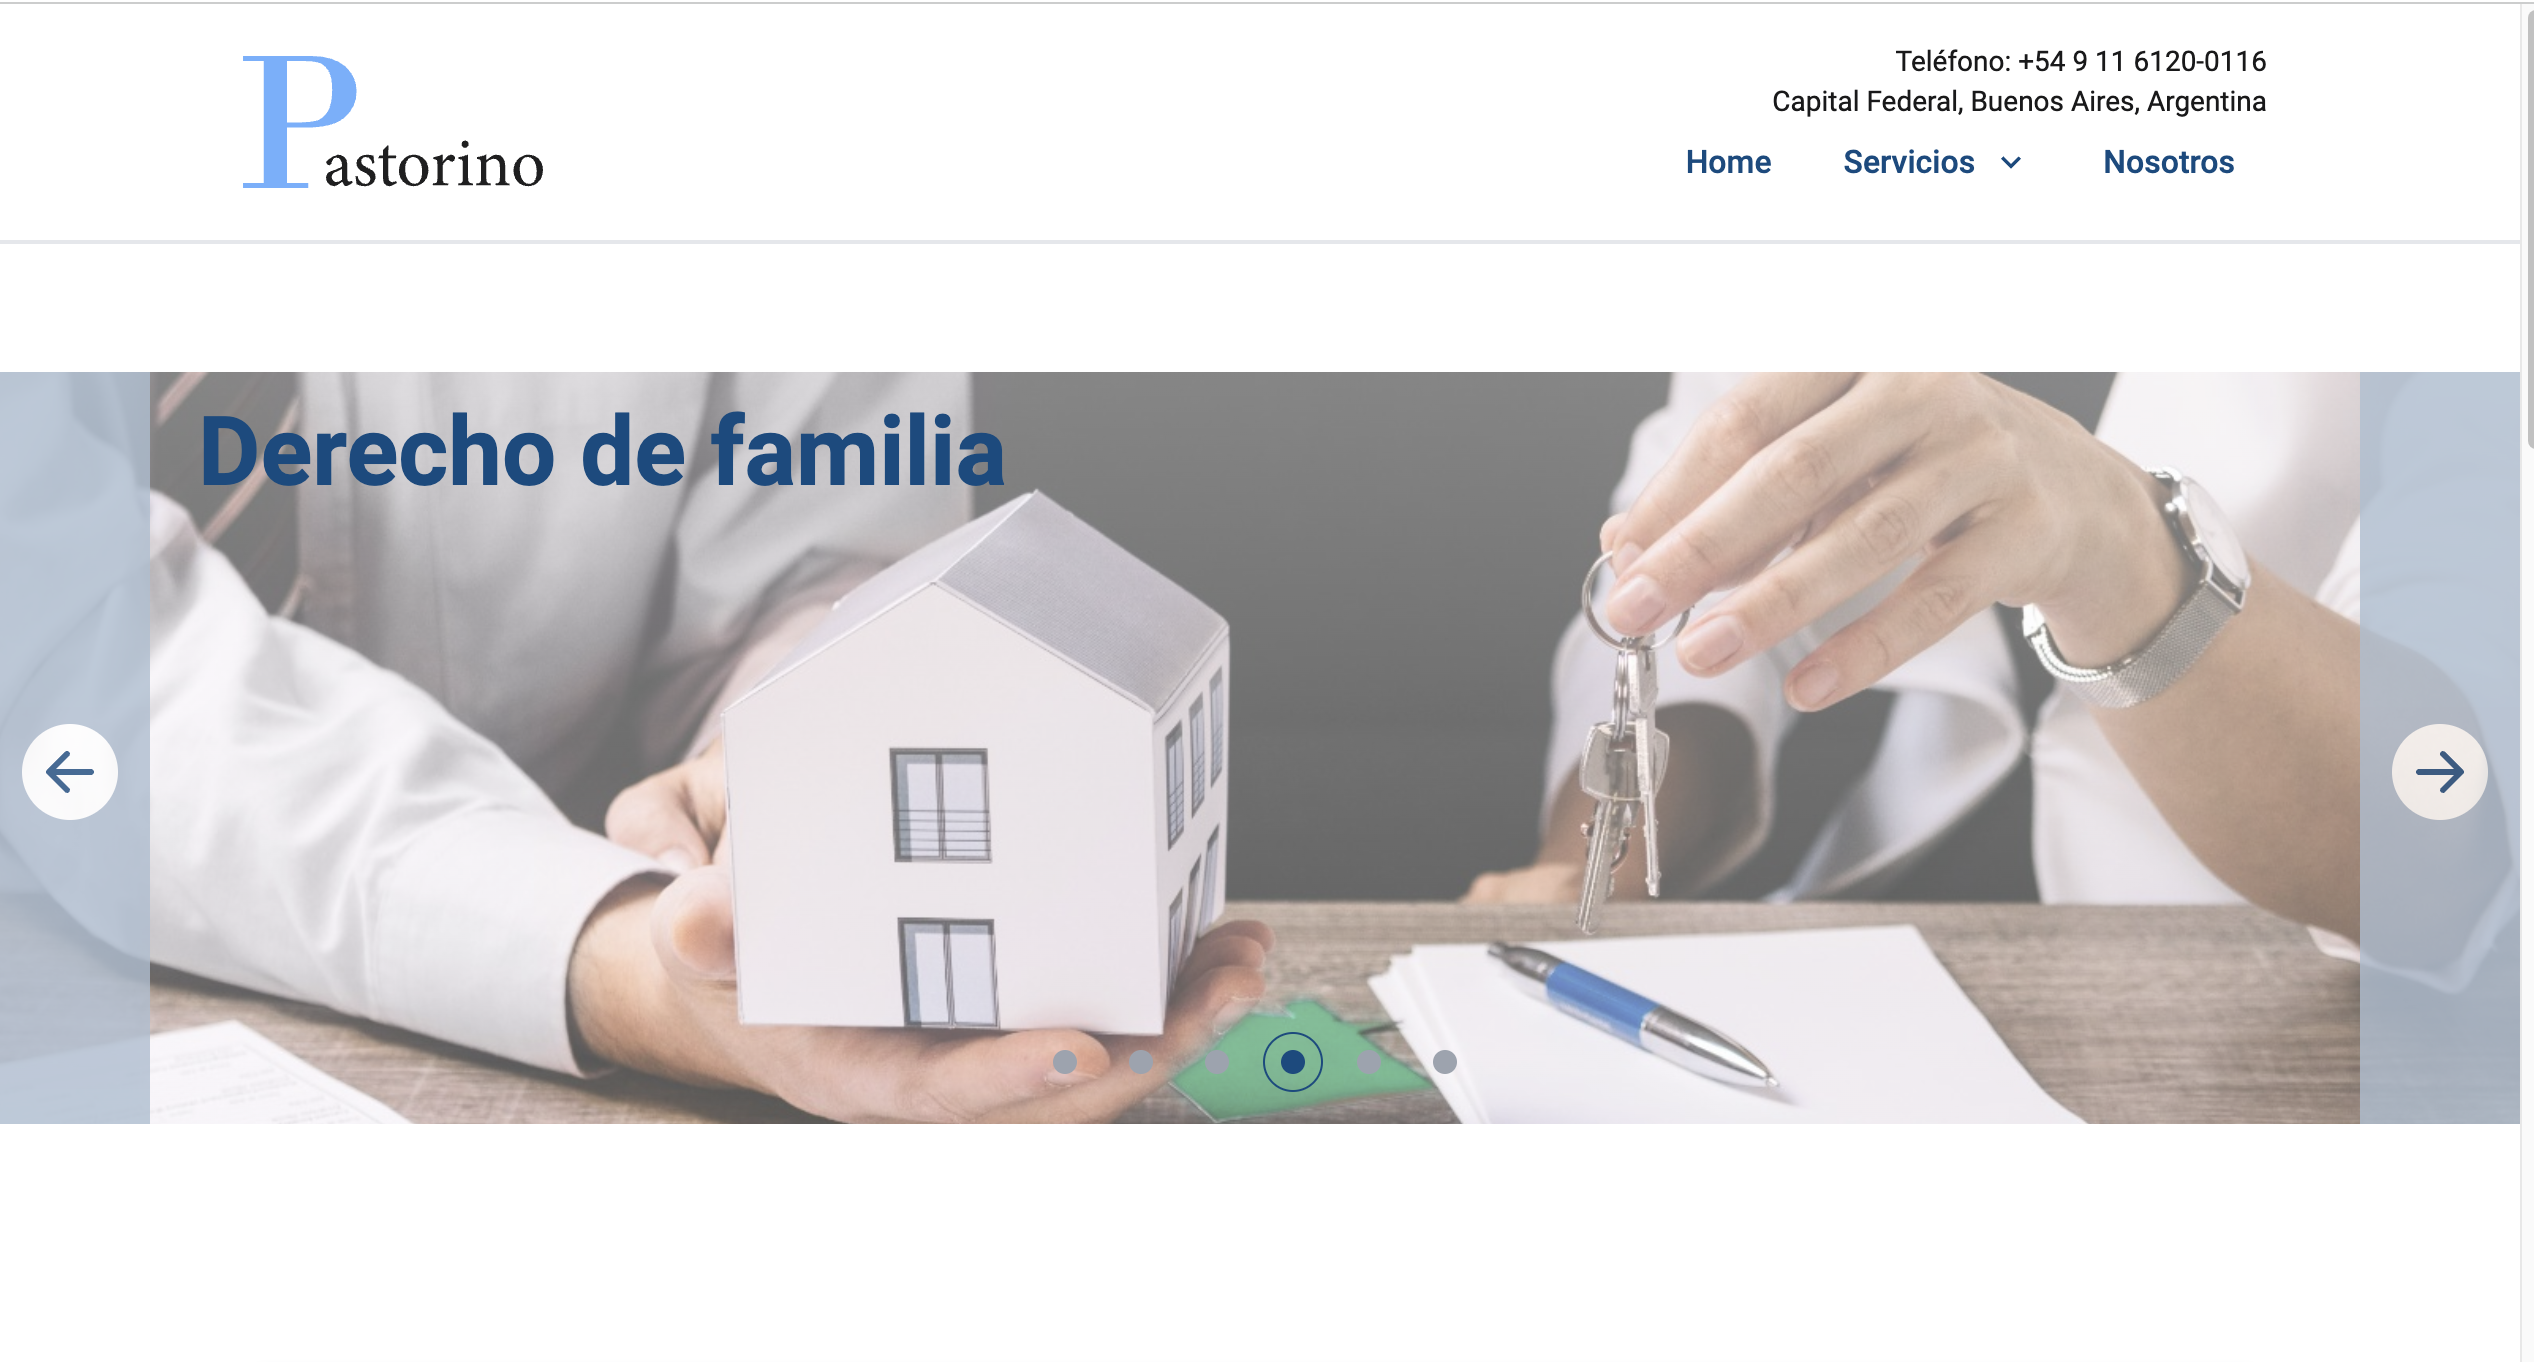
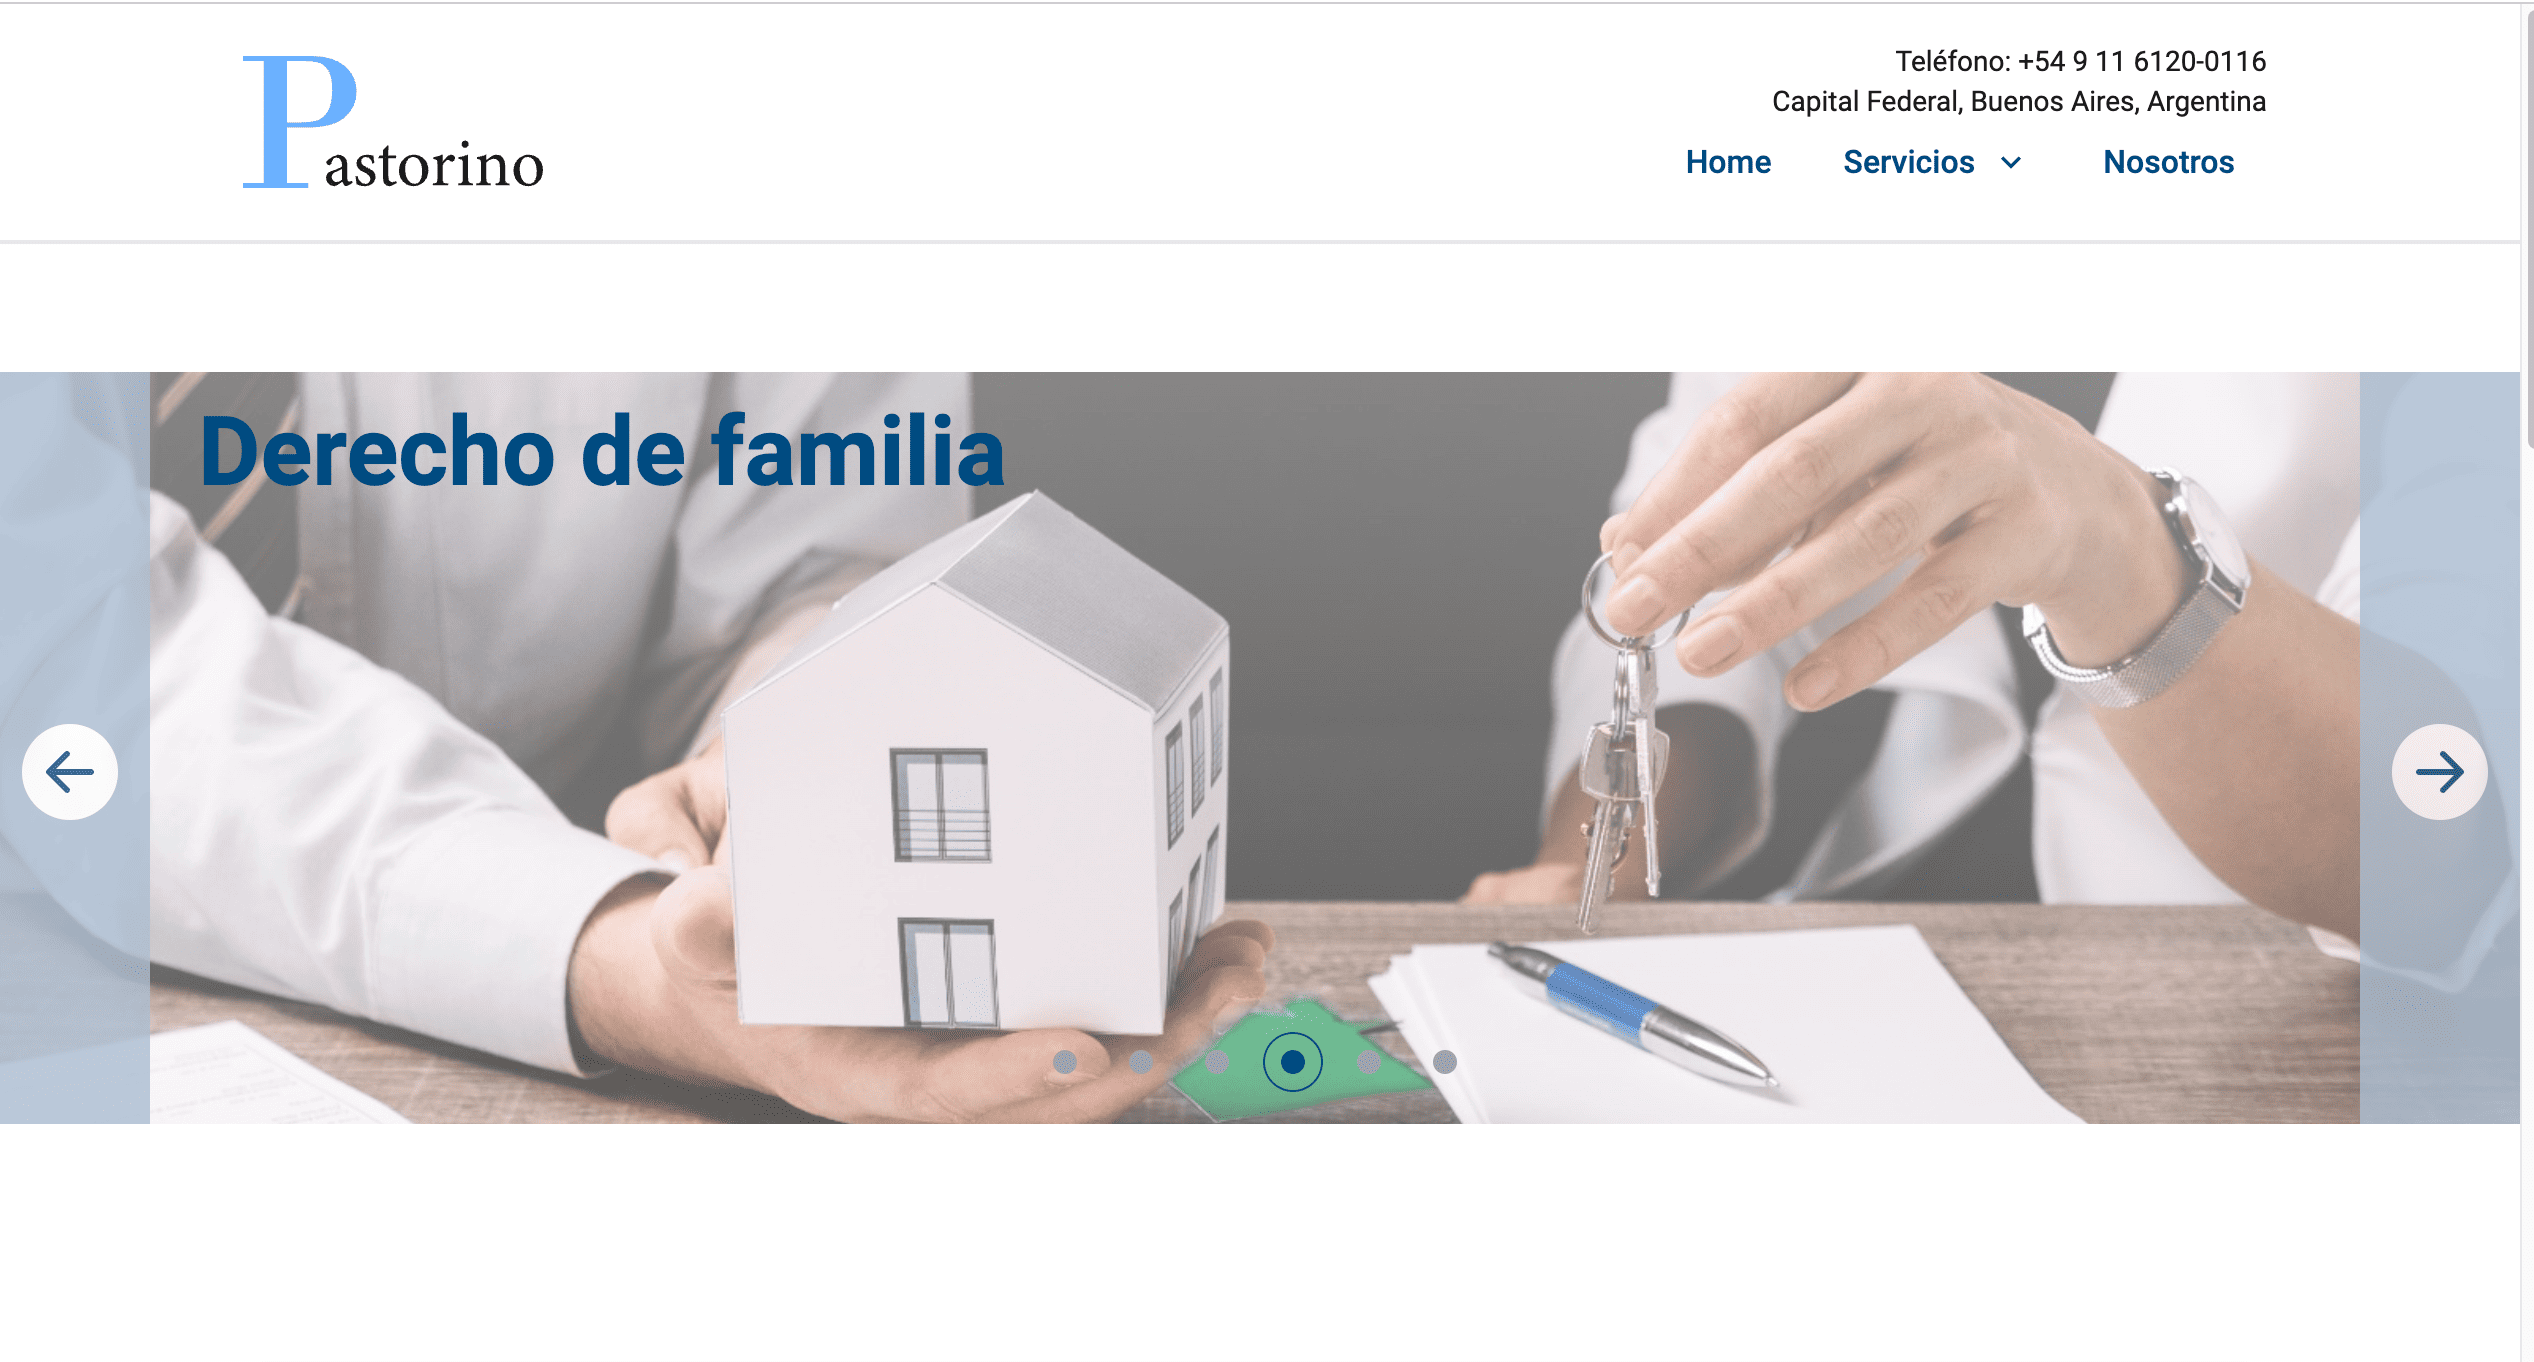
Change hero image, add gasti to projects

diff --git a/src/components/Hero.jsx b/src/components/Hero.jsx
@@ -36,8 +36,8 @@ const Hero = () => {
             <div className='absolute  w-[150px] h-[150px] -top-10 right-0 bg-gradient-to-br from-orange-darker via-orange-dark to-orange-light-light  shadow-2xl rounded-full  motion-safe:animate-pulse'></div>
             <div className='absolute  w-[100px] h-[100px] top-60 -right-20 bg-gradient-to-br  from-yellow-dark to-yellow-light  shadow-2xl rounded-full  animate-pulse'></div>
             <div className='absolute  w-[100px] h-[100px] top-60 -right-20 bg-gradient-to-br  from-yellow-dark to-yellow-light  shadow-2xl rounded-full  animate-pulse'></div>
-            <div className={` w-[80%] sm:w-[50%] md:w-full  rounded-b-[25%] flex`}  >
-              <img src={bkPortada} alt="Foto de Beyker Estrada" className='translate-y-6' />
+            <div className={` w-[80%] sm:w-[40%] md:w-full  rounded-b-[25%] flex`}  >
+              <img src={bkPortada} alt="Foto de Beyker Estrada" className='translate-y-6  ' />
             </div>
           </div>
         </div>

diff --git a/src/constants/index.js b/src/constants/index.js
@@ -18,7 +18,8 @@ import {
     martial_geeks,
     exchange,
     sagaIdiomas, 
-    pastorino
+    pastorino,
+    gasti
 } from '../assets/projects'
 
 import {
@@ -130,6 +131,31 @@ const technologies = [
 ]
 
 const projects = [
+    {
+        name: "Gasti.pro Landing page",
+        description:
+            "Gasti is an innovative tool for managing your personal finances. ",
+        tags: [
+            {
+                name: "React",
+                color: "text-blue-light",
+            },
+            {
+                name: "Tailwind CSS",
+                color: "text-orange-darker",
+            },
+            {
+                name: "TypeScript",
+                color: "text-blue-light",
+            },
+            {
+                name: "Vite",
+                color: "text-yellow-dark",
+            },
+        ],
+        image: gasti,
+        deploy_link: "https://gasti.pro"
+    },
     {
         name: "Pastorino Law Firm",
         description:

diff --git a/src/assets/projects/index.js b/src/assets/projects/index.js
@@ -2,10 +2,12 @@ import martial_geeks from "./martial_geeks.png"
 import exchange from "./exchange.png"
 import sagaIdiomas from "./sagaIdiomas.png"
 import pastorino from "./pastorino.png"
+import gasti from "./gasti.png"
 
 export {
     martial_geeks,
     exchange,
     sagaIdiomas,
-    pastorino
+    pastorino,
+    gasti
 }
